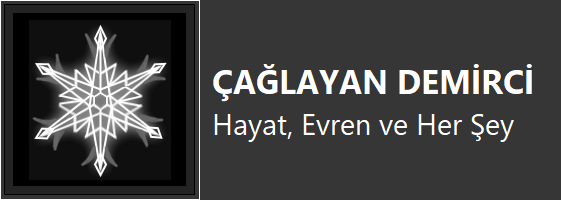
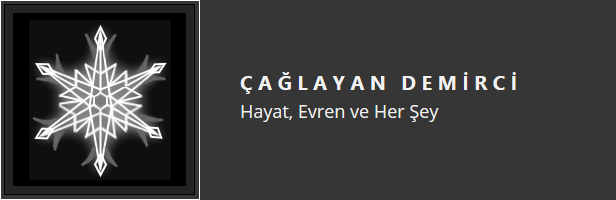
changet sth

Changed region(s): [[0.0606, 0.0, 0.9697, 1.0], [0.0, 0.06, 0.0303, 0.93]]

diff --git a/_layouts/default.html b/_layouts/default.html
@@ -10,7 +10,7 @@
 	</head>
 	<body>
 		<div class="header">
-			<a href="../index"><img class="site_title" src="../images/site-title-image.png"></a>
+			<a href="../index"><img class="site_title" src="../images/title5.png"></a>
 			<div class="nav_bar">
 				<a href="../index"><img src="../images/iconhp.png"></a>
 				<a href="../cs/main"><img src="../images/iconcs.jpg"></a>

diff --git a/_layouts/post.html b/_layouts/post.html
@@ -15,7 +15,7 @@
 	</head>
 	<body>
 		<div class="header">
-			<a href="../index"><img class="site_title" src="../images/site-title-image.png"></a>
+			<a href="../index"><img class="site_title" src="../images/title5.png"></a>
 			<div class="nav_bar">
 				<a href="../index"><img src="../images/iconhp.png"></a>
 				<a href="../cs/main"><img src="../images/iconcs.jpg"></a>

diff --git a/about.md b/about.md
@@ -15,7 +15,7 @@ Kişisel site. Kişisel blog sitesi, blog, Çağlayan Demirci’nin sanat, tekni
 
 Çocukluğumdan beri, becerebildiğim çapta yazı yazmaktan hoşlanıyorum. Uzun süre Ekşi Sözlük’te yazdım, ancak orası, asırlık “Ekşi bozdu” muhabbetinden değil ama gerçekten ağız tadıyla yazı yazılacak durumdan çıktığı için, bir süredir kendime ait bir platformda kendi küçük dünyamı kurma planları yapıyordum. Öyle çok da sosyal medyacı bir tarafım olmadığından ve eskiden beri web sayfaları tasarlamayı sevdiğimden, bunu kendime ait ama son derece sade, okumaya hizmet eden bir blog sitesinde gerçekleştirmeye karar verdim. Lafın kısası, burayı başkalarının da faydalanabileceği **kişisel elektronik hafıza** olarak kullanacağım. 
 
-Bir ara, bugün "Blog, Yazılar, Notlar" yazan yerde "Hayat, Evren ve Her Şey" şeklinde, eloğlunun *catchphrase* dediği bir slogan kullanıyordum. O, Douglas Adams’ın yazdığı Otostopçu’nun Galaksi Rehberi (*The Hitchhiker’s Guide to the Galaxy*) adlı kitapta yer alan “Hayat, evren ve her şeye dair nihai sorunun cevabı 42’dir” kültüne göndermede bulunuyordu. Bunun eski hali "Hayat, Evren ve Her Şey'e Dair Nihai Kişisel Blog" idi. Bir zamanlar "Sanat, Teknik, Düşünce" sloganını da kullanmıştım. Bugünkü halinin de değişmeyeceğinin garantisini veremem. Marka olmadıktan sonra çok da isim ya da iddialı sözlerle orayı doldurmak istemiyorum. Bunun yanında kendim çizdiğim not defteri simgemi kullanıyorum -çok da logo sayılmaz- o gözüme sevimli geliyor.
+Bir ara, bugün Bazı Yazılar, Notlar, Kişisel Site..." yazan yerde "Hayat, Evren ve Her Şey" şeklinde, eloğlunun *catchphrase* dediği bir slogan kullanıyordum. O, Douglas Adams’ın yazdığı Otostopçu’nun Galaksi Rehberi (*The Hitchhiker’s Guide to the Galaxy*) adlı kitapta yer alan “Hayat, evren ve her şeye dair nihai sorunun cevabı 42’dir” kültüne göndermede bulunuyordu. Bunun eski hali "Hayat, Evren ve Her Şey'e Dair Nihai Kişisel Blog" idi. Bir zamanlar "Sanat, Teknik, Düşünce" sloganını da kullanmıştım. Bugünkü halinin de değişmeyeceğinin garantisini veremem. Marka olmadıktan sonra çok da isim ya da iddialı sözlerle orayı doldurmak istemiyorum. Bunun yanında kendim çizdiğim not defteri simgemi kullanıyorum -çok da logo sayılmaz- o gözüme sevimli geliyor.
 
 ### Site Hakkında
 

diff --git a/cs/electron-hakkinda.md b/cs/electron-hakkinda.md
@@ -25,6 +25,6 @@ app.on('ready', function() {
 })
 ```
 
-###Peki Neden Electron kullanalım? 
+### Peki Neden Electron kullanalım? 
 
 Sayfa tasarımı bilenler için, programlamayla uğraşanların haberdar olduğu GUI'den çok daha pratik bir çözüm olarak karşımıza çıkıyor. Öğrenmenin bu dönemde bir kazanç olacağı Javascript ile uygulama geliştirebilmeyi sağlıyor. Bir sayfayı şekillendirmek konusunda açık ara en basit ve güçlü çözüm olarak bildiğim **CSS** ile uygulamanızın her pikseline hakim olmanıza olanak tanıyor. Önceden biraz kullanmışlığım olan **Python Tkinter** ya da **Java GUI** gibi yazılımlarda genelde programcı, karşısında bir grafik olarak görünen ve doğru çalışan bir programdan daha fazlasına uğraşmak istemiyor ya da elinde öyle bir araç bulamıyor; Java GUI'de bir butonun yazı fontunu, kenarlık rengini, sayfada pikseli pikseline tam olarak nerede duracağını vs nasıl ayarlayacağız mesela ben bilmiyorum. Her şey bir yana, böyle güzel tasarlanmış **Open Source** projelere olan sevgim gün geçtikçe artıyor.
